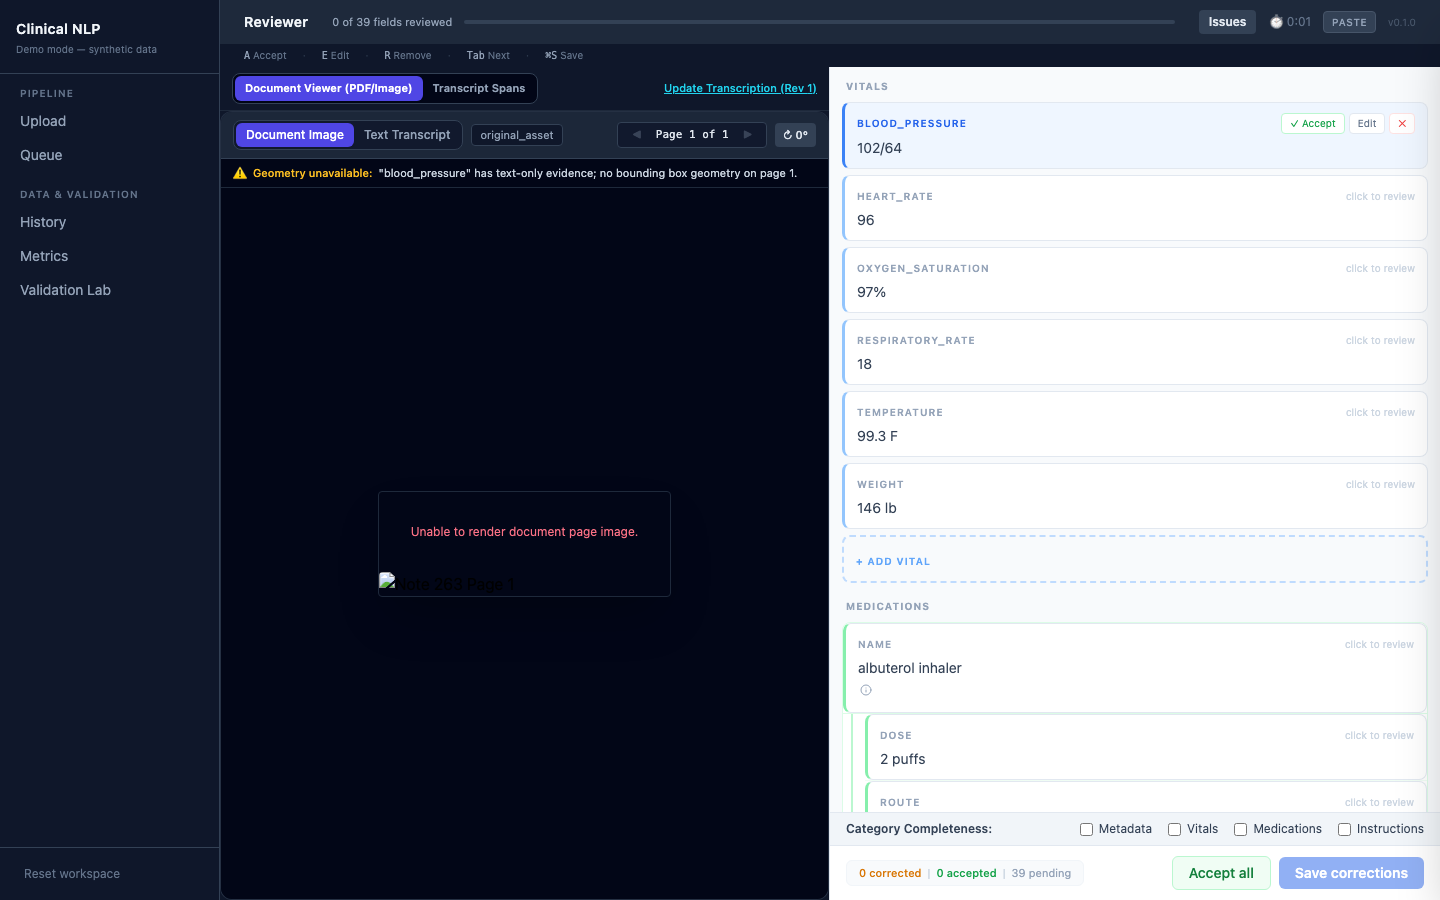
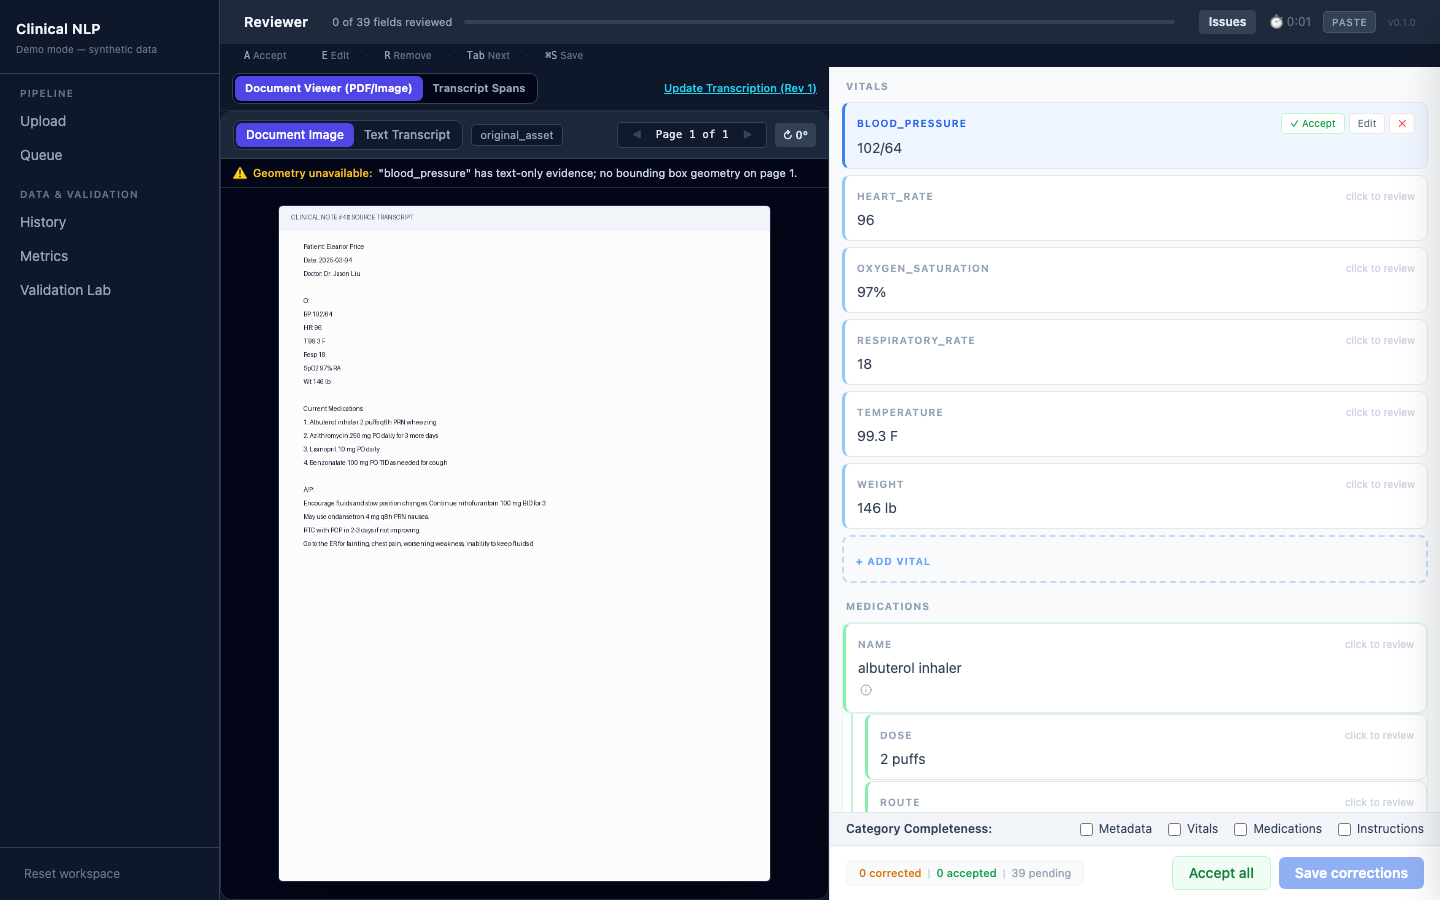
fix(qa): resolve worker startup race, test asset purge, and local QA artifacts

Changed region(s): [[0.1875, 0.2178, 0.5625, 0.9956]]

diff --git a/backend/tests/test_workspace_authorization.py b/backend/tests/test_workspace_authorization.py
@@ -280,15 +280,16 @@ def test_hosted_expiry_purge_removes_issue_events_and_acquisition_records(app):
         )
         session.add(asset)
         session.flush()
+        asset_id = asset.id
         acquisition = AcquisitionRun(
-            source_asset_id=asset.id,
+            source_asset_id=asset_id,
             engine="text_utf8", status="completed", canonical_text="Synthetic",
         )
         session.add(acquisition)
         session.flush()
         revision = NoteRevision(
             note_id=note.id, workspace_id=ws_id, revision_number=1,
-            source_asset_id=asset.id, acquisition_run_id=acquisition.id,
+            source_asset_id=asset_id, acquisition_run_id=acquisition.id,
             raw_text="Synthetic", normalized_text="Synthetic", sha256="1" * 64,
         )
         session.add(revision)
@@ -323,7 +324,7 @@ def test_hosted_expiry_purge_removes_issue_events_and_acquisition_records(app):
         assert session.query(Note).filter_by(workspace_id=ws_id).count() == 0
         assert session.query(OperationalIssue).filter_by(workspace_id=ws_id).count() == 0
         assert session.query(IssueEvent).count() == 0
-        assert session.query(AcquisitionRun).filter_by(source_asset_id=asset.id).count() == 0
+        assert session.query(AcquisitionRun).filter_by(source_asset_id=asset_id).count() == 0
         assert session.query(SourceAsset).filter_by(workspace_id=ws_id).count() == 0
 
 

diff --git a/backend/worker.py b/backend/worker.py
@@ -344,10 +344,16 @@ def process_single_job(job: Job, session: Session) -> bool:
 def run_worker_loop(engine, poll_interval: float = 1.0, once: bool = False):
     """Main worker processing loop."""
     while True:
-        with get_session(engine) as session:
-            job = claim_next_job(session)
-            if job:
-                process_single_job(job, session)
+        try:
+            with get_session(engine) as session:
+                job = claim_next_job(session)
+                if job:
+                    process_single_job(job, session)
+        except Exception:
+            if once:
+                raise
+            time.sleep(poll_interval)
+            continue
         if once:
             break
         time.sleep(poll_interval)
